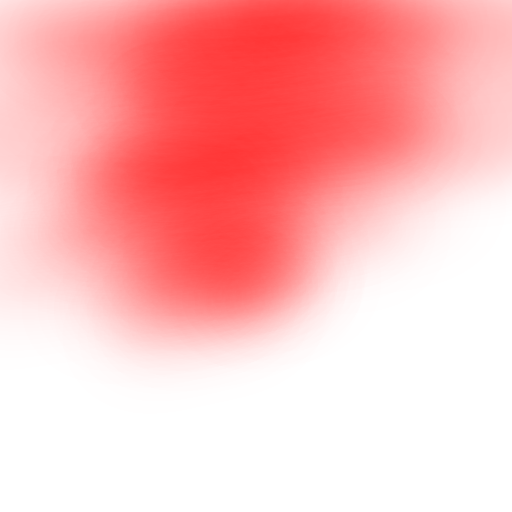
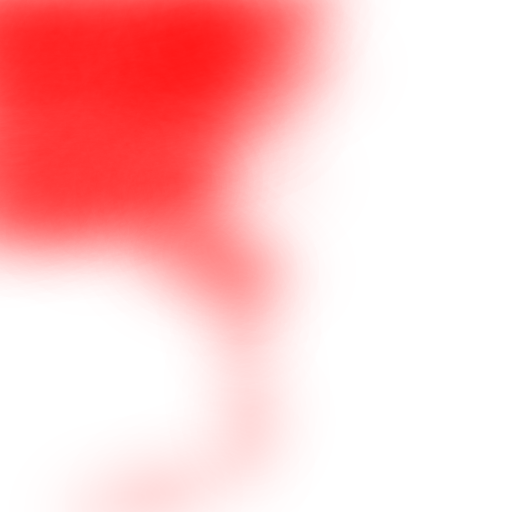
ボスがジャンプ攻撃と移動行うようにした

diff --git a/ActionGame/TestScene.cpp b/ActionGame/TestScene.cpp
@@ -12,13 +12,14 @@
 
 #include"GameItem.h"
 
+#include"Boss.h"
 #include"BossAttack.h"
 
 
 void TestScene::Initialize()
 {
 	
-	//Stage::LoadResources(0);
+	Stage::LoadResources(0);
 	Stage::LoadResources(1);
 	//Stage::LoadResources(2);
 
@@ -30,6 +31,7 @@ void TestScene::Initialize()
 	NewEnemy::SetPPlayer(pPlayer);
 	CapsuleEnemyAttack::SetPPlayer(pPlayer);
 	BossAttack::SetPPlayer(pPlayer);
+	Boss::SetPPlayer(pPlayer);
 
 	EnemySpaunPoint::ClearEnemySpauns();
 	MelLib::GameObjectManager::GetInstance()->InitializeObject();

diff --git a/ActionGame/GamePlay.cpp b/ActionGame/GamePlay.cpp
@@ -12,6 +12,8 @@
 
 #include"EnemySpaunPoint.h"
 #include"CapsuleEnemyAttack.h"
+
+#include"Boss.h"
 #include"BossAttack.h"
 #include"NewEnemy.h"
 
@@ -52,7 +54,8 @@ void GamePlay::Initialize()
 	EnemySpaunPoint::SetPlayer(pPlayer);
 	NewEnemy::SetPPlayer(pPlayer);
 	CapsuleEnemyAttack::SetPPlayer(pPlayer);
-	BossAttack::SetPPlayer(pPlayer);
+	BossAttack::SetPPlayer(pPlayer); 
+	Boss::SetPPlayer(pPlayer);
 
 	EnemySpaunPoint::ClearEnemySpauns();
 	MelLib::GameObjectManager::GetInstance()->InitializeObject();

diff --git a/MyLibrary/SceneEditer.cpp b/MyLibrary/SceneEditer.cpp
@@ -544,7 +544,7 @@ bool MelLib::SceneEditer::ReleaseCheck()
 #ifdef _DEBUG
 
 #else
-	return !releaseEdit
+	return !releaseEdit;
 #endif // _DEBUG
 
 	return true;
